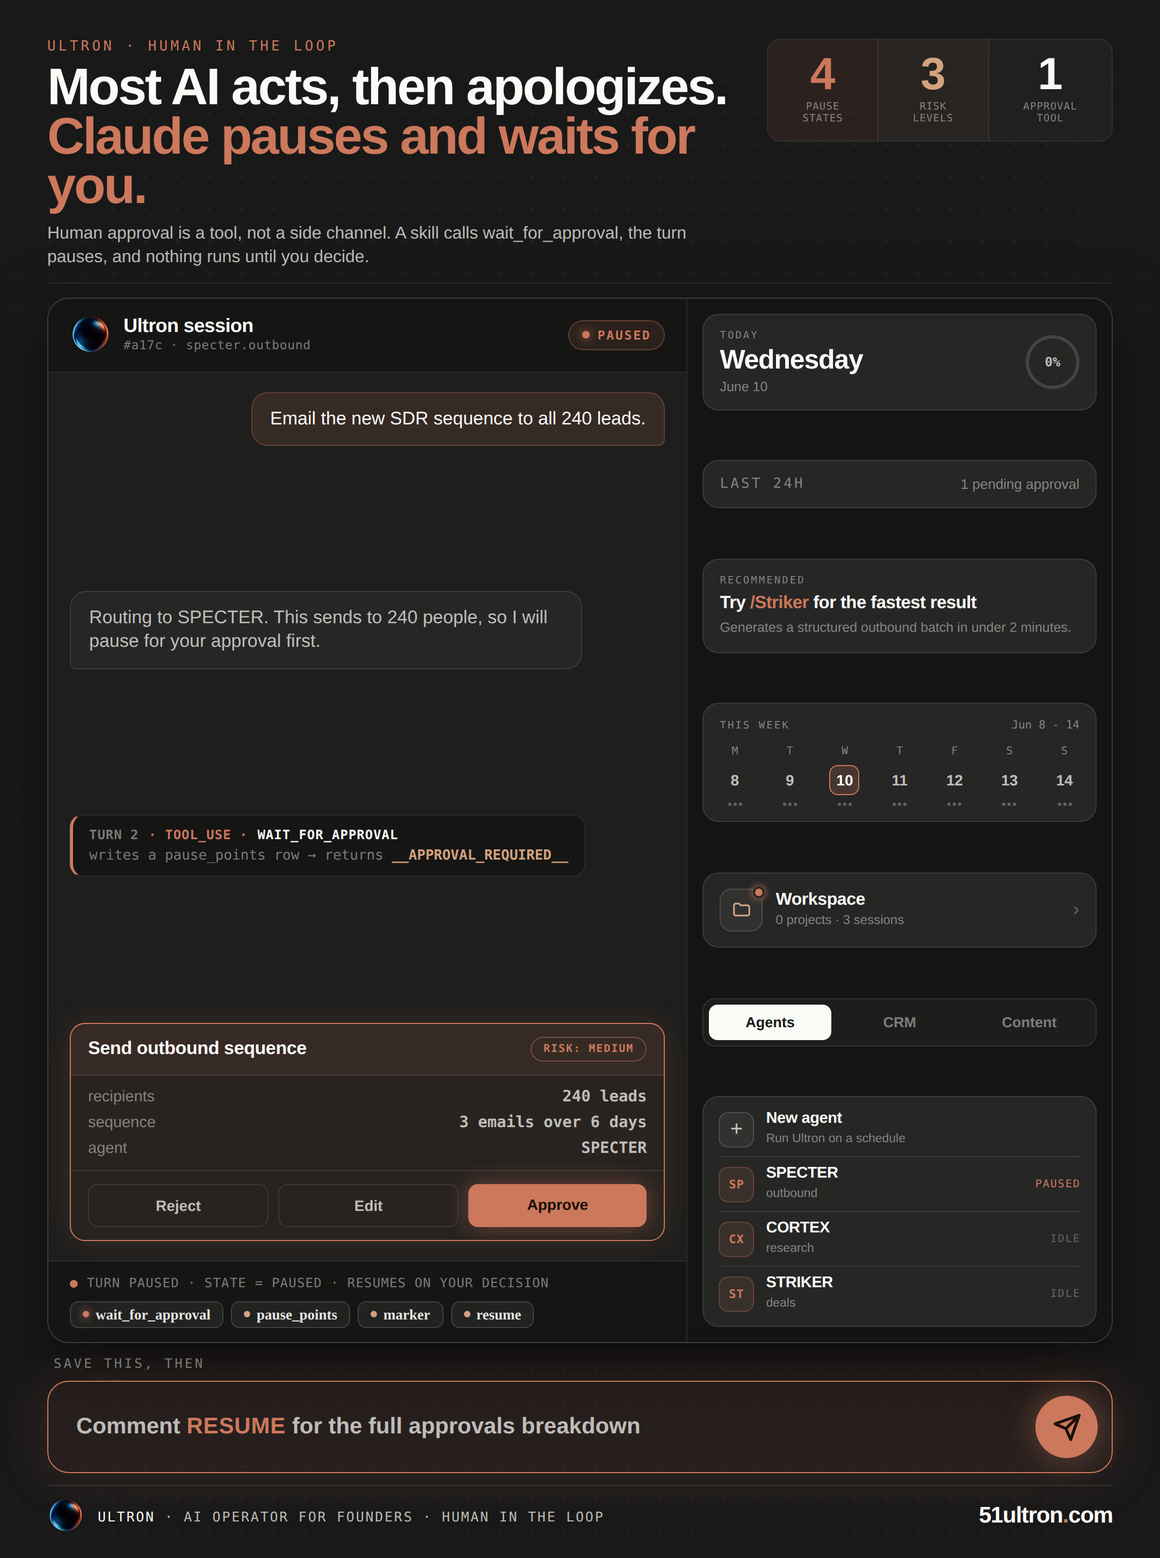
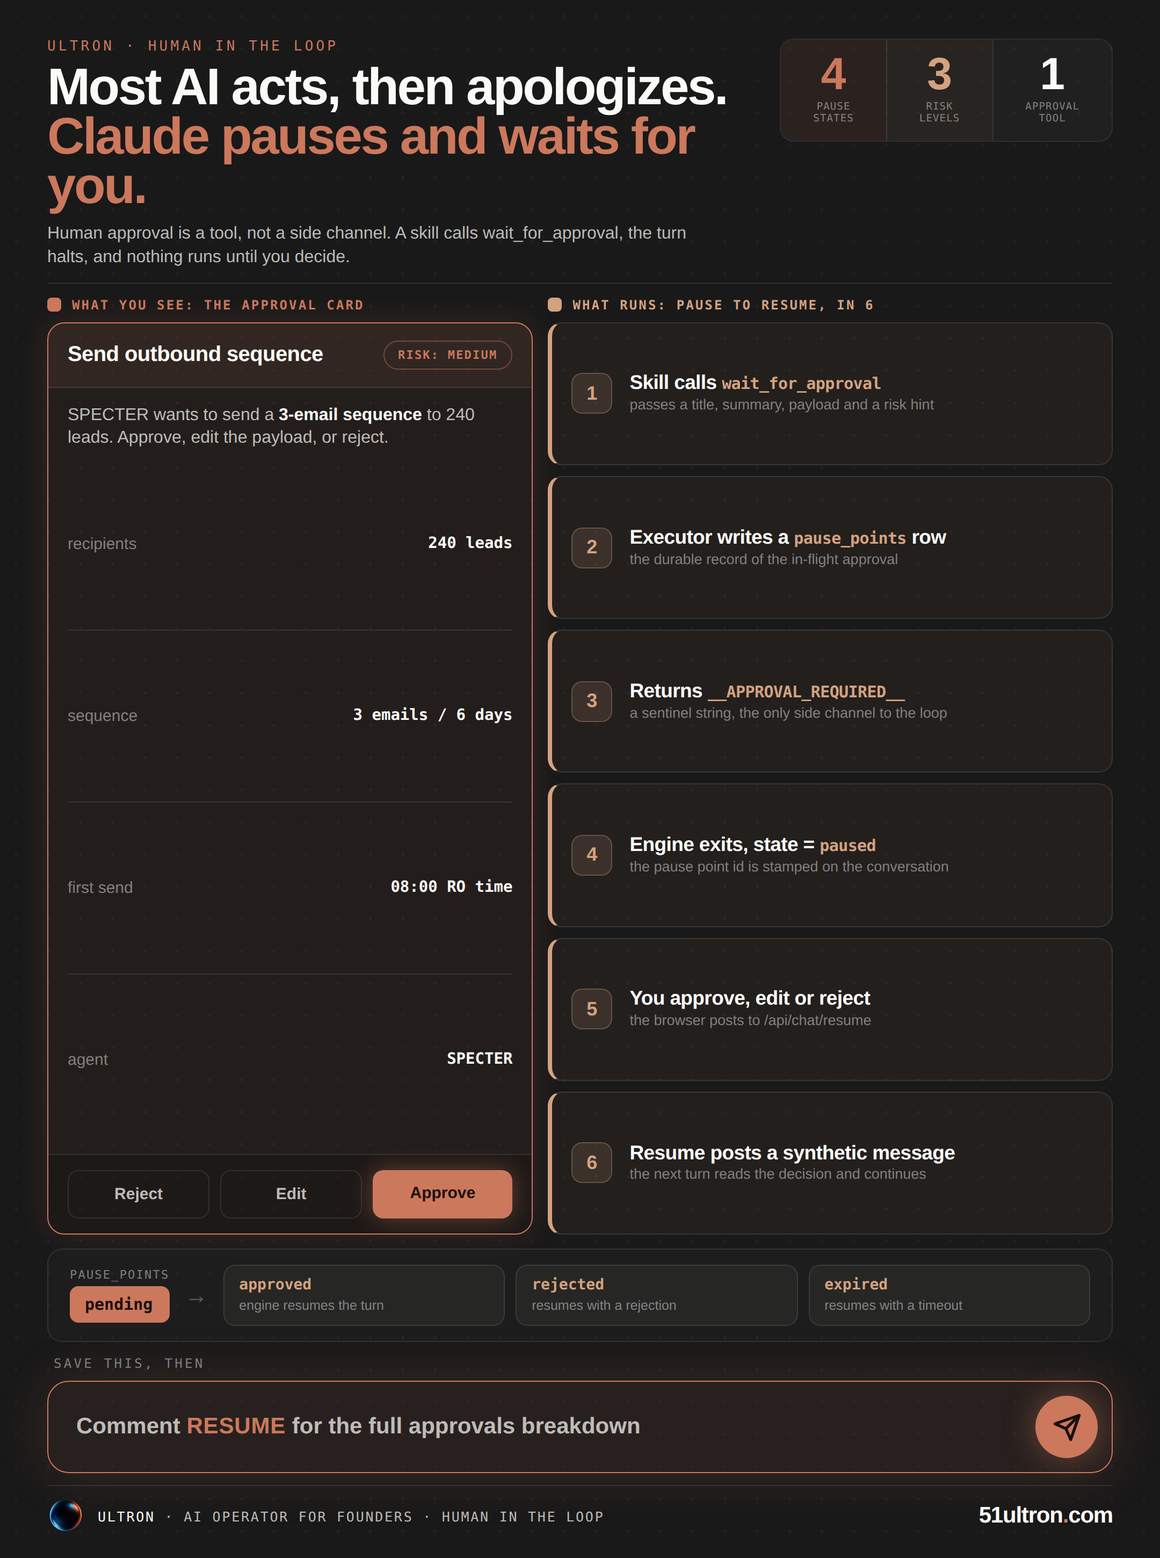
content: docs-12 LinkedIn - redesign to a distinct layout (no docs-11 repetition)
docs-12 had reused the docs-11 chat+menu app window - a banned template repeat. Rebuilt
with a bespoke HITL composition: the standalone approval-card artifact (left, book), the
6-step pause-to-resume flow (right, kraft), and the pause_points state machine strip
(pending -> approved/rejected/expired). Brand frame (hero/CTA/footer) kept; body is fully
different from docs-11. Payload rows fill the card so there is no center gap.

diff --git a/content/docs-12-resume-linkedin.html b/content/docs-12-resume-linkedin.html
@@ -11,84 +11,52 @@ body{background:#0d0d0d;display:flex;justify-content:center;padding:24px 0;font-
 .hook{font-weight:900;font-size:48px;line-height:.96;letter-spacing:-1.7px;color:var(--ivory);}.hook em{color:var(--book);font-style:normal;}
 .sub{margin-top:10px;font-size:16px;font-weight:500;line-height:1.33;color:var(--ink70);max-width:600px;}.sub b{color:var(--ivory);font-weight:700;}
 .statile{flex-shrink:0;display:flex;border:1px solid var(--rule);border-radius:13px;overflow:hidden;}
-.st{padding:16px 32px 14px;text-align:center;}.st+.st{border-left:1px solid var(--rule);}
+.st{padding:16px 30px 14px;text-align:center;}.st+.st{border-left:1px solid var(--rule);}
 .st .sn{font-weight:900;font-size:42px;line-height:.78;}.st.a .sn{color:var(--book);}.st.b .sn{color:var(--kraft);}.st.c .sn{color:var(--ivory);}
 .st.a{background:rgba(204,120,92,.1);}.st.b{background:rgba(212,162,127,.08);}.st.c{background:rgba(250,250,247,.03);}
 .st .sl{font-family:'DM Mono',monospace;font-size:9.5px;font-weight:500;letter-spacing:.06em;text-transform:uppercase;color:var(--ink46);margin-top:8px;line-height:1.2;}
-/* app window */
-.app{flex:1;min-height:0;margin-top:13px;display:flex;border:1px solid var(--ink14);border-radius:20px;overflow:hidden;background:#1e1e1d;box-shadow:0 26px 66px rgba(0,0,0,.5);}
-.chatpane{flex:1.62;min-width:0;display:flex;flex-direction:column;}
-.chd{flex-shrink:0;display:flex;align-items:center;gap:12px;padding:15px 20px;border-bottom:1px solid var(--rule);background:#151514;}
-.chd .av{width:38px;height:38px;border-radius:50%;object-fit:cover;flex-shrink:0;}
-.chd .ct b{display:block;font-size:18px;font-weight:800;color:var(--ivory);letter-spacing:-.3px;line-height:1;}
-.chd .ct span{font-family:'DM Mono',monospace;font-size:11.5px;color:var(--ink46);letter-spacing:.03em;}
-.chd .rz{margin-left:auto;display:flex;align-items:center;gap:7px;font-family:'DM Mono',monospace;font-size:11.5px;font-weight:600;letter-spacing:.12em;text-transform:uppercase;color:var(--book);background:rgba(204,120,92,.12);border:1px solid rgba(204,120,92,.34);padding:6px 12px;border-radius:30px;}
-.chd .rz i{width:7px;height:7px;border-radius:50%;background:var(--book);box-shadow:0 0 9px var(--book);}
-.cbody{flex:1;min-height:0;padding:18px 20px;display:flex;flex-direction:column;gap:11px;justify-content:space-between;}
-.msg{max-width:86%;padding:13px 17px;border-radius:15px;font-size:17px;font-weight:500;line-height:1.3;}
-.msg.u{align-self:flex-end;background:rgba(204,120,92,.14);border:1px solid rgba(204,120,92,.28);color:var(--ivory);border-bottom-right-radius:6px;}
-.msg.a{align-self:flex-start;background:var(--slate2);border:1px solid var(--rule);color:var(--ink70);border-bottom-left-radius:6px;}
-.tcall{align-self:flex-start;max-width:90%;display:flex;flex-direction:column;gap:5px;background:#151514;border:1px solid var(--rule);border-left:3px solid var(--book);border-radius:12px;padding:11px 15px;}
-.tcall .th{display:flex;align-items:center;gap:9px;font-family:'DM Mono',monospace;font-size:12px;font-weight:600;letter-spacing:.04em;text-transform:uppercase;color:var(--book);}
-.tcall .th .tn{color:var(--ink46);}.tcall .th .nm{color:var(--ivory);}
-.tcall .tr{font-family:'DM Mono',monospace;font-size:13px;color:var(--ink46);}.tcall .tr b{color:var(--kraft);font-weight:600;}
-/* approval card - the HITL focal element */
-.appcard{align-self:stretch;border:1px solid var(--book);border-radius:14px;overflow:hidden;background:rgba(204,120,92,.06);box-shadow:0 0 28px rgba(204,120,92,.18);}
-.appcard .ah{display:flex;align-items:center;gap:12px;padding:12px 16px;border-bottom:1px solid var(--rule);background:rgba(204,120,92,.09);}
-.appcard .ah .ttl{font-weight:800;font-size:17px;color:var(--ivory);letter-spacing:-.2px;}
-.appcard .ah .risk{margin-left:auto;font-family:'DM Mono',monospace;font-size:10px;font-weight:600;letter-spacing:.1em;text-transform:uppercase;color:var(--book);border:1px solid rgba(204,120,92,.45);border-radius:20px;padding:5px 11px;}
-.appcard .ab{padding:12px 16px;display:flex;flex-direction:column;gap:8px;}
-.appcard .prow{display:flex;justify-content:space-between;font-size:14.5px;}.appcard .prow span{color:var(--ink46);}.appcard .prow b{color:var(--ink70);font-weight:600;font-family:'DM Mono',monospace;}
-.appcard .acts{display:flex;gap:9px;padding:12px 16px;border-top:1px solid var(--rule);}
-.appcard .b{flex:1;text-align:center;font-size:14px;font-weight:800;padding:11px;border-radius:9px;}
-.appcard .b.rej,.appcard .b.edit{border:1px solid var(--rule);color:var(--ink70);}
-.appcard .b.appr{background:var(--book);color:#1a0f0a;box-shadow:0 0 22px rgba(204,120,92,.42);}
-.cfoot{flex-shrink:0;padding:13px 20px;border-top:1px solid var(--rule);background:#151514;}
-.cfoot .fl{font-family:'DM Mono',monospace;font-size:12px;font-weight:500;letter-spacing:.05em;text-transform:uppercase;color:var(--ink46);margin-bottom:10px;display:flex;align-items:center;gap:8px;}
-.cfoot .fl em{color:var(--book);font-style:normal;}
-.cfoot .pills{display:flex;flex-wrap:wrap;gap:7px;}
-.pl{font-family:'DM Sans';font-size:13.5px;font-weight:700;color:rgba(250,250,247,.92);background:rgba(250,250,247,.06);border:1px solid var(--ink14);border-radius:8px;padding:5px 11px;line-height:1;display:flex;align-items:center;gap:6px;}
-.pl i{width:6px;height:6px;border-radius:50%;background:var(--kraft);}.pl.c i{background:var(--book);box-shadow:0 0 8px var(--book);}
-/* ultron menu pane */
-.menupane{flex:1;min-width:0;border-left:1px solid var(--rule);background:#141413;display:flex;flex-direction:column;padding:14px;gap:10px;justify-content:space-between;}
-.mcard{background:var(--slate2);border:1px solid var(--rule);border-radius:15px;padding:14px 15px;flex-shrink:0;}
-.mlbl{font-family:'DM Mono',monospace;font-size:9.5px;font-weight:500;letter-spacing:.16em;text-transform:uppercase;color:var(--ink46);}
-.today{display:flex;align-items:center;justify-content:space-between;gap:10px;}
-.today .dy{font-weight:800;font-size:25px;color:var(--ivory);letter-spacing:-.6px;margin-top:5px;line-height:1;}
-.today .dt{font-size:12.5px;color:var(--ink46);margin-top:5px;}
-.ring{width:50px;height:50px;border-radius:50%;border:3px solid var(--ink14);display:flex;align-items:center;justify-content:center;font-family:'DM Mono',monospace;font-size:12px;font-weight:600;color:var(--ink70);flex-shrink:0;}
-.l24{display:flex;align-items:center;justify-content:space-between;}.l24 span{font-size:13px;color:var(--ink46);}
-.rec .tt{font-weight:800;font-size:16.5px;color:var(--ivory);margin-top:6px;letter-spacing:-.3px;line-height:1.1;}.rec .tt em{color:var(--book);font-style:normal;}
-.rec .ds{font-size:12.5px;color:var(--ink46);margin-top:6px;line-height:1.3;}
-.wk .top{display:flex;justify-content:space-between;align-items:center;}.wk .rng{font-family:'DM Mono',monospace;font-size:10.5px;color:var(--ink46);}
-.wkrow{display:flex;justify-content:space-between;margin-top:13px;}
-.wd{display:flex;flex-direction:column;align-items:center;gap:7px;}
-.wd .dl{font-family:'DM Mono',monospace;font-size:10px;color:var(--ink46);}
-.wd .dn{font-weight:700;font-size:14px;color:var(--ink70);width:28px;height:28px;display:flex;align-items:center;justify-content:center;border-radius:8px;}
-.wd.on .dn{color:var(--ivory);background:rgba(204,120,92,.2);border:1px solid var(--book);}
-.wd .dots{display:flex;gap:2px;}.wd .dots i{width:3px;height:3px;border-radius:50%;background:var(--ink30);}
-.ws{display:flex;align-items:center;gap:12px;}
-.wsic{width:40px;height:40px;border-radius:11px;background:rgba(250,250,247,.05);border:1px solid var(--ink14);display:flex;align-items:center;justify-content:center;position:relative;flex-shrink:0;}
-.wsic svg{width:19px;height:19px;stroke:var(--kraft);stroke-width:2;fill:none;stroke-linecap:round;stroke-linejoin:round;}
-.wsic .dot{position:absolute;top:-3px;right:-3px;width:11px;height:11px;border-radius:50%;background:var(--book);border:2px solid var(--slate2);box-shadow:0 0 7px var(--book);}
-.ws .wt b{display:block;font-size:16px;font-weight:800;color:var(--ivory);letter-spacing:-.2px;line-height:1.1;}.ws .wt span{font-size:12px;color:var(--ink46);}
-.ws .chev{margin-left:auto;color:var(--ink30);font-size:18px;}
-.tabs{display:flex;gap:7px;background:rgba(250,250,247,.04);border:1px solid var(--rule);border-radius:12px;padding:5px;}
-.tab{flex:1;text-align:center;font-size:13.5px;font-weight:700;padding:9px 4px;border-radius:8px;color:var(--ink46);}
-.tab.on{background:var(--ivory);color:#191919;}
-.agl{padding:5px 14px;}
-.ag{display:flex;align-items:center;gap:11px;padding:8px 0;}
-.ag+.ag{border-top:1px solid var(--rule);}
-.agic{width:33px;height:33px;border-radius:9px;background:rgba(204,120,92,.12);border:1px solid rgba(204,120,92,.28);display:flex;align-items:center;justify-content:center;font-family:'DM Mono',monospace;font-size:11px;font-weight:600;color:var(--book);flex-shrink:0;letter-spacing:.04em;}
-.naic2{width:33px;height:33px;border-radius:9px;background:rgba(250,250,247,.05);border:1px solid var(--ink14);display:flex;align-items:center;justify-content:center;color:var(--ink70);font-size:20px;flex-shrink:0;line-height:1;}
-.ag .at b{display:block;font-size:14.5px;font-weight:800;color:var(--ivory);letter-spacing:-.2px;line-height:1.1;}.ag .at span{font-size:11.5px;color:var(--ink46);}
-.ag .agt{margin-left:auto;font-family:'DM Mono',monospace;font-size:10px;letter-spacing:.1em;text-transform:uppercase;color:var(--ink30);}
-.ag .agt.run{color:var(--book);}
-.cta{flex-shrink:0;margin-top:12px;display:flex;align-items:center;gap:16px;border:1.5px solid var(--book);border-radius:20px;background:rgba(204,120,92,.08);padding:13px 13px 13px 26px;box-shadow:0 0 50px rgba(204,120,92,.18);}
-.cta .savel{position:absolute;}
-.ctawrap{flex-shrink:0;margin-top:12px;}
+/* main split: approval card (left) + flow (right) */
+.main{flex:1;min-height:0;margin-top:13px;display:grid;grid-template-columns:0.86fr 1fr;gap:14px;}
+.col{display:flex;flex-direction:column;min-height:0;}
+.colh{flex-shrink:0;display:flex;align-items:center;gap:10px;margin-bottom:9px;}
+.colh .sq{width:13px;height:13px;border-radius:4px;flex-shrink:0;}
+.colh .lb{font-family:'DM Mono',monospace;font-size:12px;font-weight:600;letter-spacing:.13em;text-transform:uppercase;}
+.colh.a .sq{background:var(--book);}.colh.a .lb{color:var(--book);}
+.colh.b .sq{background:var(--kraft);}.colh.b .lb{color:var(--kraft);}
+/* the approval card artifact */
+.acard{flex:1;min-height:0;display:flex;flex-direction:column;border:1px solid var(--book);border-radius:16px;overflow:hidden;background:rgba(204,120,92,.06);box-shadow:0 0 30px rgba(204,120,92,.16);}
+.acard .ah{flex-shrink:0;display:flex;align-items:center;gap:12px;padding:16px 18px;border-bottom:1px solid var(--rule);background:rgba(204,120,92,.09);}
+.acard .ah .ttl{font-weight:800;font-size:20px;color:var(--ivory);letter-spacing:-.3px;line-height:1.05;}
+.acard .ah .risk{margin-left:auto;font-family:'DM Mono',monospace;font-size:11px;font-weight:600;letter-spacing:.1em;text-transform:uppercase;color:var(--book);border:1px solid rgba(204,120,92,.45);border-radius:20px;padding:6px 13px;white-space:nowrap;}
+.acard .summ{flex-shrink:0;padding:15px 18px 4px;font-size:16px;line-height:1.35;color:var(--ink70);}.acard .summ b{color:var(--ivory);font-weight:700;}
+.acard .ab{flex:1;min-height:0;padding:4px 18px 8px;display:flex;flex-direction:column;}
+.acard .prow{flex:1;display:flex;justify-content:space-between;align-items:center;font-size:15px;border-top:1px solid var(--rule);}
+.acard .prow:first-child{border-top:none;}
+.acard .prow span{color:var(--ink46);}.acard .prow b{color:var(--ivory);font-weight:600;font-family:'DM Mono',monospace;font-size:14.5px;}
+.acard .acts{flex-shrink:0;display:flex;gap:10px;padding:14px 18px;border-top:1px solid var(--rule);background:rgba(0,0,0,.15);}
+.acard .b{flex:1;text-align:center;font-size:15px;font-weight:800;padding:13px;border-radius:10px;}
+.acard .b.rej,.acard .b.edit{border:1px solid var(--rule);color:var(--ink70);}
+.acard .b.appr{background:var(--book);color:#1a0f0a;box-shadow:0 0 22px rgba(204,120,92,.42);}
+/* the 6-step flow */
+.flow{flex:1;min-height:0;display:flex;flex-direction:column;gap:10px;}
+.fstep{flex:1;display:flex;align-items:center;gap:16px;border:1px solid var(--rule);border-left:4px solid var(--kraft);border-radius:13px;padding:0 18px;background:rgba(212,162,127,.05);}
+.fstep .n{width:38px;height:38px;border-radius:10px;background:rgba(212,162,127,.14);border:1px solid var(--kraft-bd,rgba(212,162,127,.3));color:var(--kraft);font-weight:900;font-size:18px;display:flex;align-items:center;justify-content:center;flex-shrink:0;}
+.fstep .tx b{display:block;font-size:18.5px;font-weight:800;color:var(--ivory);letter-spacing:-.3px;line-height:1.06;}
+.fstep .tx b em{color:var(--kraft);font-style:normal;font-family:'DM Mono',monospace;font-size:15px;}
+.fstep .tx span{font-size:13.5px;color:var(--ink46);line-height:1.25;display:block;margin-top:3px;}
+/* state machine strip */
+.states{flex-shrink:0;margin-top:13px;display:flex;align-items:center;gap:14px;border:1px solid var(--rule);border-radius:14px;padding:14px 20px;background:rgba(250,250,247,.02);}
+.states .lead{display:flex;flex-direction:column;gap:4px;flex-shrink:0;}
+.states .lead .k{font-family:'DM Mono',monospace;font-size:11px;letter-spacing:.1em;text-transform:uppercase;color:var(--ink46);}
+.pchip{font-family:'DM Mono',monospace;font-size:15px;font-weight:600;color:#1a0f0a;background:var(--book);border-radius:8px;padding:8px 14px;white-space:nowrap;}
+.sarrow{color:var(--ink30);font-size:22px;flex-shrink:0;}
+.outs{flex:1;display:flex;gap:10px;}
+.ochip{flex:1;border:1px solid var(--rule);border-radius:11px;padding:10px 14px;background:var(--slate2);}
+.ochip .s{font-family:'DM Mono',monospace;font-size:14px;font-weight:600;color:var(--kraft);}
+.ochip .r{font-size:12.5px;color:var(--ink46);margin-top:4px;line-height:1.2;}
+.cta{flex-shrink:0;display:flex;align-items:center;gap:16px;border:1.5px solid var(--book);border-radius:20px;background:rgba(204,120,92,.08);padding:13px 13px 13px 26px;box-shadow:0 0 50px rgba(204,120,92,.18);}
+.ctawrap{flex-shrink:0;margin-top:13px;}
 .savel{font-family:'DM Mono',monospace;font-size:12px;font-weight:500;letter-spacing:.18em;text-transform:uppercase;color:var(--ink46);margin-bottom:9px;padding-left:6px;}
-.cta{margin-top:0;}
 .cta .ph{flex:1;font-size:21px;font-weight:600;color:var(--ink70);line-height:1.2;}.cta .ph b{color:var(--book);font-weight:900;letter-spacing:.02em;}
 .cta .send{width:58px;height:58px;border-radius:50%;background:var(--book);flex-shrink:0;display:flex;align-items:center;justify-content:center;box-shadow:0 0 30px rgba(204,120,92,.45);}
 .cta .send svg{width:27px;height:27px;stroke:#1a0f0a;stroke-width:2.4;fill:none;stroke-linecap:round;stroke-linejoin:round;}
@@ -97,44 +65,42 @@ body{background:#0d0d0d;display:flex;justify-content:center;padding:24px 0;font-
 .ftx{font-family:'DM Mono',monospace;font-size:12.5px;font-weight:400;letter-spacing:.11em;text-transform:uppercase;color:var(--ink70);}.ftx b{color:var(--ivory);font-weight:500;}
 .furl{font-weight:900;font-size:21px;letter-spacing:-.6px;color:var(--ivory);}.furl em{color:var(--book);font-style:normal;}
 </style></head><body><div class="frame" id="artifact"><div class="atm"></div>
-<div class="hero"><div><div class="eye">Ultron &middot; Human in the Loop</div><div class="hook">Most AI acts, then apologizes. <em>Claude pauses and waits for you.</em></div><div class="sub">Human approval is a tool, not a side channel. A skill calls wait_for_approval, the turn pauses, and nothing runs until you decide.</div></div>
+<div class="hero"><div><div class="eye">Ultron &middot; Human in the Loop</div><div class="hook">Most AI acts, then apologizes. <em>Claude pauses and waits for you.</em></div><div class="sub">Human approval is a tool, not a side channel. A skill calls wait_for_approval, the turn halts, and nothing runs until you decide.</div></div>
 <div class="statile"><div class="st a"><div class="sn">4</div><div class="sl">pause<br>states</div></div><div class="st b"><div class="sn">3</div><div class="sl">risk<br>levels</div></div><div class="st c"><div class="sn">1</div><div class="sl">approval<br>tool</div></div></div></div>
-<div class="app">
-<div class="chatpane">
-<div class="chd"><img class="av" src="__LOGO_URI__" alt="Ultron"><div class="ct"><b>Ultron session</b><span>#a17c &middot; specter.outbound</span></div><div class="rz"><i></i>Paused</div></div>
-<div class="cbody">
-<div class="msg u">Email the new SDR sequence to all 240 leads.</div>
-<div class="msg a">Routing to SPECTER. This sends to 240 people, so I will pause for your approval first.</div>
-<div class="tcall"><div class="th"><span class="tn">turn 2</span> &middot; tool_use &middot; <span class="nm">wait_for_approval</span></div><div class="tr">writes a pause_points row &rarr; returns <b>__APPROVAL_REQUIRED__</b></div></div>
-<div class="appcard">
+<div class="main">
+<div class="col">
+<div class="colh a"><span class="sq"></span><span class="lb">What you see: the approval card</span></div>
+<div class="acard">
 <div class="ah"><span class="ttl">Send outbound sequence</span><span class="risk">risk: medium</span></div>
-<div class="ab"><div class="prow"><span>recipients</span><b>240 leads</b></div><div class="prow"><span>sequence</span><b>3 emails over 6 days</b></div><div class="prow"><span>agent</span><b>SPECTER</b></div></div>
+<div class="summ">SPECTER wants to send a <b>3-email sequence</b> to 240 leads. Approve, edit the payload, or reject.</div>
+<div class="ab">
+<div class="prow"><span>recipients</span><b>240 leads</b></div>
+<div class="prow"><span>sequence</span><b>3 emails / 6 days</b></div>
+<div class="prow"><span>first send</span><b>08:00 RO time</b></div>
+<div class="prow"><span>agent</span><b>SPECTER</b></div>
+</div>
 <div class="acts"><span class="b rej">Reject</span><span class="b edit">Edit</span><span class="b appr">Approve</span></div>
 </div>
 </div>
-<div class="cfoot"><div class="fl"><em>&#9679;</em> Turn paused &middot; state = paused &middot; resumes on your decision</div><div class="pills"><span class="pl c"><i></i>wait_for_approval</span><span class="pl"><i></i>pause_points</span><span class="pl"><i></i>marker</span><span class="pl"><i></i>resume</span></div></div>
+<div class="col">
+<div class="colh b"><span class="sq"></span><span class="lb">What runs: pause to resume, in 6</span></div>
+<div class="flow">
+<div class="fstep"><div class="n">1</div><div class="tx"><b>Skill calls <em>wait_for_approval</em></b><span>passes a title, summary, payload and a risk hint</span></div></div>
+<div class="fstep"><div class="n">2</div><div class="tx"><b>Executor writes a <em>pause_points</em> row</b><span>the durable record of the in-flight approval</span></div></div>
+<div class="fstep"><div class="n">3</div><div class="tx"><b>Returns <em>__APPROVAL_REQUIRED__</em></b><span>a sentinel string, the only side channel to the loop</span></div></div>
+<div class="fstep"><div class="n">4</div><div class="tx"><b>Engine exits, state = <em>paused</em></b><span>the pause point id is stamped on the conversation</span></div></div>
+<div class="fstep"><div class="n">5</div><div class="tx"><b>You approve, edit or reject</b><span>the browser posts to /api/chat/resume</span></div></div>
+<div class="fstep"><div class="n">6</div><div class="tx"><b>Resume posts a synthetic message</b><span>the next turn reads the decision and continues</span></div></div>
 </div>
-<div class="menupane">
-<div class="mcard today"><div><div class="mlbl">Today</div><div class="dy">Wednesday</div><div class="dt">June 10</div></div><div class="ring">0%</div></div>
-<div class="mcard l24"><span class="mlbl">Last 24h</span><span>1 pending approval</span></div>
-<div class="mcard rec"><div class="mlbl">Recommended</div><div class="tt">Try <em>/Striker</em> for the fastest result</div><div class="ds">Generates a structured outbound batch in under 2 minutes.</div></div>
-<div class="mcard wk"><div class="top"><span class="mlbl">This week</span><span class="rng">Jun 8 - 14</span></div><div class="wkrow">
-<div class="wd"><span class="dl">M</span><span class="dn">8</span><span class="dots"><i></i><i></i><i></i></span></div>
-<div class="wd"><span class="dl">T</span><span class="dn">9</span><span class="dots"><i></i><i></i><i></i></span></div>
-<div class="wd on"><span class="dl">W</span><span class="dn">10</span><span class="dots"><i></i><i></i><i></i></span></div>
-<div class="wd"><span class="dl">T</span><span class="dn">11</span><span class="dots"><i></i><i></i><i></i></span></div>
-<div class="wd"><span class="dl">F</span><span class="dn">12</span><span class="dots"><i></i><i></i><i></i></span></div>
-<div class="wd"><span class="dl">S</span><span class="dn">13</span><span class="dots"><i></i><i></i><i></i></span></div>
-<div class="wd"><span class="dl">S</span><span class="dn">14</span><span class="dots"><i></i><i></i><i></i></span></div>
-</div></div>
-<div class="mcard ws"><div class="wsic"><svg viewBox="0 0 24 24"><path d="M3 7a2 2 0 012-2h4l2 2h8a2 2 0 012 2v8a2 2 0 01-2 2H5a2 2 0 01-2-2z"/></svg><span class="dot"></span></div><div class="wt"><b>Workspace</b><span>0 projects &middot; 3 sessions</span></div><span class="chev">&rsaquo;</span></div>
-<div class="tabs"><div class="tab on">Agents</div><div class="tab">CRM</div><div class="tab">Content</div></div>
-<div class="mcard agl">
-<div class="ag"><div class="naic2">+</div><div class="at"><b>New agent</b><span>Run Ultron on a schedule</span></div></div>
-<div class="ag"><div class="agic">SP</div><div class="at"><b>SPECTER</b><span>outbound</span></div><span class="agt run">paused</span></div>
-<div class="ag"><div class="agic">CX</div><div class="at"><b>CORTEX</b><span>research</span></div><span class="agt">idle</span></div>
-<div class="ag"><div class="agic">ST</div><div class="at"><b>STRIKER</b><span>deals</span></div><span class="agt">idle</span></div>
 </div>
+</div>
+<div class="states">
+<div class="lead"><span class="k">pause_points</span><span class="pchip">pending</span></div>
+<span class="sarrow">&rarr;</span>
+<div class="outs">
+<div class="ochip"><div class="s">approved</div><div class="r">engine resumes the turn</div></div>
+<div class="ochip"><div class="s">rejected</div><div class="r">resumes with a rejection</div></div>
+<div class="ochip"><div class="s">expired</div><div class="r">resumes with a timeout</div></div>
 </div>
 </div>
 <div class="ctawrap"><div class="savel">Save this, then</div><div class="cta"><span class="ph">Comment <b>RESUME</b> for the full approvals breakdown</span><span class="send"><svg viewBox="0 0 24 24"><path d="M22 2L11 13M22 2l-7 20-4-9-9-4z"/></svg></span></div></div>
